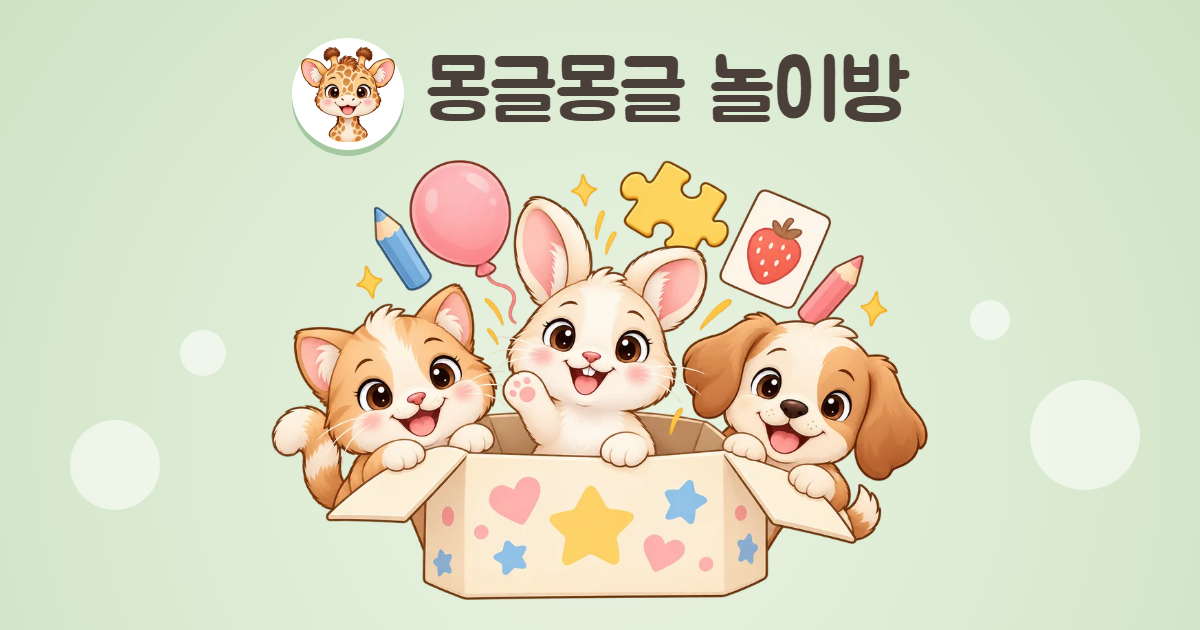
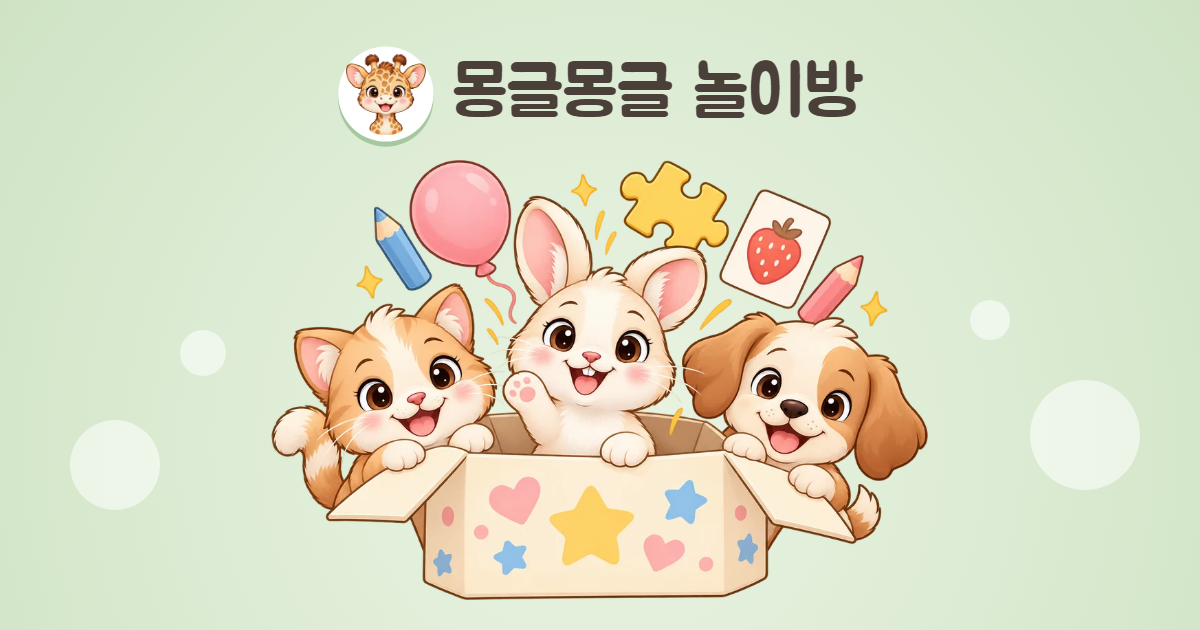
SNS 미리보기 그림의 로고·제목 묶음 85%로 축소

Changed region(s): [[0.2467, 0.0603, 0.7708, 0.2714]]

diff --git a/index.html b/index.html
@@ -1789,7 +1789,7 @@ if(STATS_CODE&&location.protocol.startsWith('http')&&!dressFitMode){const sc=doc
 function countPlay(g){try{if(window.goatcounter&&typeof goatcounter.count==='function')goatcounter.count({path:'play-'+g,title:(titles[g]||[g])[0],event:true})}catch(e){}}
 // 새 버전 확인: 앱으로 설치해 새로고침 버튼이 없어도, 열 때와 다시 돌아올 때 version.json을 보고 홈 화면에서 새로 고쳐요
 // 사이트를 바꿔 push할 때마다 version.json의 v와 이 값을 같은 새 값으로 올려요 (예: 2026.10.23-2)
-const APP_VERSION='2026.10.29-1';let newVersion=null,versionChecking=false;
+const APP_VERSION='2026.10.29-2';let newVersion=null,versionChecking=false;
 function versionReload(){if(!newVersion||screen!=='home')return;try{if(sessionStorage.getItem('mongle-reloaded')===newVersion)return;sessionStorage.setItem('mongle-reloaded',newVersion)}catch{return}location.replace('./?v='+encodeURIComponent(newVersion))}
 async function versionCheck(){if(versionChecking)return;versionChecking=true;try{const r=await fetch('version.json?t='+Date.now(),{cache:'no-store'});if(!r.ok)return;const v=(await r.json()).v;if(typeof v==='string'&&v&&v!==APP_VERSION){newVersion=v;versionReload()}}catch{}finally{versionChecking=false}}
 document.addEventListener('visibilitychange',()=>{if(document.visibilityState==='visible')versionCheck()});
